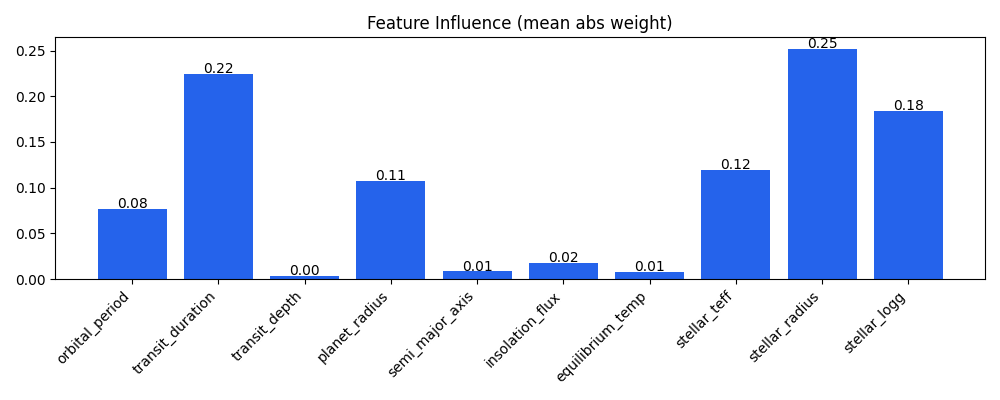
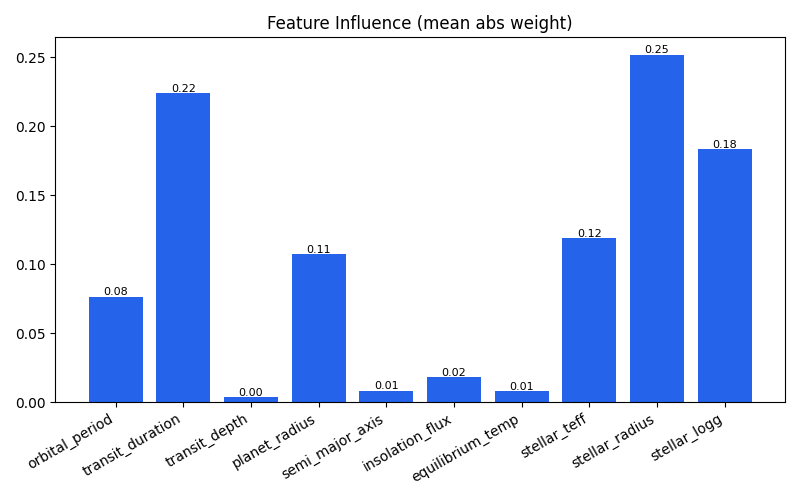
made feature influence graph taller

diff --git a/evaluate_model.py b/evaluate_model.py
@@ -7,7 +7,7 @@ from sklearn.metrics import precision_score, recall_score, f1_score, confusion_m
 from torch.utils.data import DataLoader, TensorDataset
 import os
 import json
-from datetime import datetime
+from datetime import datetime, UTC
 import shutil
 import matplotlib
 matplotlib.use('Agg')
@@ -234,12 +234,13 @@ def plot_feature_influence(model, feature_names, out_path):
             print("Feature importances all zero; skipping")
             return
         normalized = importances / importances.sum()
-        fig, ax = plt.subplots(figsize=(10, 4))
+        # Use a narrower figure and smaller rotation to make plot less wide
+        fig, ax = plt.subplots(figsize=(8, 5))
         bars = ax.bar(feature_names, normalized, color='#2563eb')
         ax.set_title('Feature Influence (mean abs weight)')
-        plt.xticks(rotation=45, ha='right')
+        plt.xticks(rotation=30, ha='right')
         for bar, v in zip(bars, normalized):
-            ax.text(bar.get_x() + bar.get_width()/2, v + 0.001, f'{v:.2f}', ha='center')
+            ax.text(bar.get_x() + bar.get_width()/2, v + 0.001, f'{v:.2f}', ha='center', fontsize=8)
         plt.tight_layout()
         fig.savefig(out_path)
         plt.close(fig)
@@ -347,7 +348,7 @@ if __name__ == '__main__':
                 'eval_recall': float(results['recall']),
                 'eval_f1_score': float(results['f1_score']),
                 'eval_roc_auc': float(results['roc_auc']),
-                'eval_date_utc': datetime.now(datetime.UTC).isoformat() + 'Z',
+                'eval_date_utc': datetime.now(UTC).isoformat() + 'Z',
                 'eval_test_size': int(results.get('total', test_size))
             }
 
@@ -363,7 +364,7 @@ if __name__ == '__main__':
             os.makedirs(ckpt_dir, exist_ok=True)
 
             if os.path.exists(checkpoint_path):
-                backup = checkpoint_path + f'.bak.{datetime.now(datetime.UTC).strftime("%Y%m%dT%H%M%SZ")}' # create backup
+                backup = checkpoint_path + f'.bak.{datetime.now(UTC).strftime("%Y%m%dT%H%M%SZ")}' # create backup
                 try:
                     shutil.copy2(checkpoint_path, backup)
                 except Exception:
